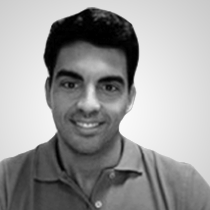
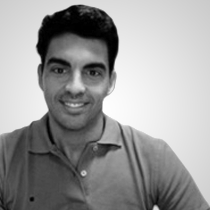
New team images

diff --git a/team.html b/team.html
@@ -71,7 +71,7 @@
 
 						<div class="three columns"> 
 
-								<img class="picture" src="http://placekitten.com/205/205" />	
+								<img class="picture" src="images/yoin/carlos.png" />	
 
 						</div>
 
@@ -111,7 +111,7 @@
 
 						<div class="three columns"> 
 
-								<img class="picture" src="http://placekitten.com/205/205" />	
+								<img class="picture" src="images/yoin/pepe.png" />	
 
 						</div>
 
@@ -151,7 +151,7 @@
 
 						<div class="three columns"> 
 
-								<img class="picture" src="http://placekitten.com/205/205" />	
+								<img class="picture" src="images/yoin/rai.png" />	
 
 						</div>
 
@@ -193,7 +193,7 @@
 
 						<div class="three columns"> 
 
-								<img class="picture" src="http://placekitten.com/205/205" />	
+								<img class="picture" src="images/yoin/andrew.png" />	
 
 						</div>
 
@@ -236,7 +236,7 @@
 
 						<div class="three columns"> 
 
-								<img class="picture" src="http://placekitten.com/205/205" />	
+								<img class="picture" src="images/yoin/anu.png" />	
 
 						</div>
 
@@ -279,7 +279,7 @@
 
 						<div class="three columns"> 
 
-								<img class="picture" src="http://placekitten.com/205/205" />	
+								<img class="picture" src="images/yoin/pablo.png" />	
 
 						</div>
 
@@ -320,7 +320,7 @@
 
 						<div class="three columns"> 
 
-								<img class="picture" src="http://placekitten.com/205/205" />	
+								<img class="picture" src="images/yoin/diego.png" />	
 
 						</div>
 
@@ -363,7 +363,7 @@
 
 						<div class="three columns"> 
 
-								<img class="picture" src="http://placekitten.com/205/205" />	
+								<img class="picture" src="images/yoin/javi.png" />	
 
 						</div>
 
@@ -405,7 +405,7 @@
 
 						<div class="three columns"> 
 
-								<img class="picture" src="http://placekitten.com/205/205" />	
+								<img class="picture" src="images/yoin/ale.png" />	
 
 						</div>
 
